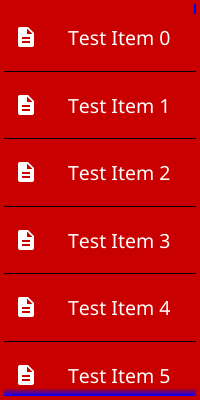
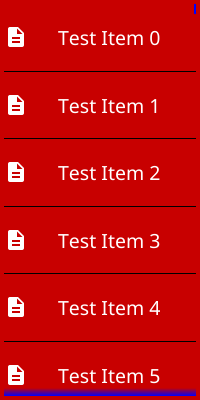
Fix rounding error on list layout that could cause clipping on last
Also remove extra padding missed on the left of cells

diff --git a/widget/list.go b/widget/list.go
@@ -322,18 +322,14 @@ type listItemRenderer struct {
 
 // MinSize calculates the minimum size of a listItem.
 // This is based on the size of the status indicator and the size of the child object.
-func (li *listItemRenderer) MinSize() (size fyne.Size) {
-	itemSize := li.item.child.MinSize()
-	size = fyne.NewSize(itemSize.Width+theme.Padding(), itemSize.Height)
-	return
+func (li *listItemRenderer) MinSize() fyne.Size {
+	return li.item.child.MinSize()
 }
 
 // Layout the components of the listItem widget.
 func (li *listItemRenderer) Layout(size fyne.Size) {
 	li.item.background.Resize(size)
-
-	li.item.child.Move(fyne.NewPos(theme.Padding(), 0))
-	li.item.child.Resize(fyne.NewSize(size.Width-theme.Padding(), size.Height))
+	li.item.child.Resize(size)
 }
 
 func (li *listItemRenderer) Refresh() {
@@ -429,7 +425,7 @@ func (l *listLayout) updateList(refresh bool) {
 		length = f()
 	}
 	visibleItemCount := int(math.Ceil(float64(l.list.scroller.Size().Height)/float64(l.list.itemMin.Height+theme.SeparatorThicknessSize()))) + 1
-	offY := l.list.offsetY - float32(int(l.list.offsetY)%int(l.list.itemMin.Height+separatorThickness))
+	offY := l.list.offsetY - float32(math.Mod(float64(l.list.offsetY), float64(l.list.itemMin.Height+separatorThickness)))
 	minRow := ListItemID(offY / (l.list.itemMin.Height + separatorThickness))
 	maxRow := ListItemID(fyne.Min(float32(minRow+visibleItemCount), float32(length)))
 

diff --git a/widget/list_test.go b/widget/list_test.go
@@ -38,7 +38,7 @@ func TestList_MinSize(t *testing.T) {
 		},
 		"large": {
 			fyne.NewSize(100, 100),
-			fyne.NewSize(100+theme.Padding(), 100),
+			fyne.NewSize(100, 100),
 		},
 	} {
 		t.Run(name, func(t *testing.T) {
